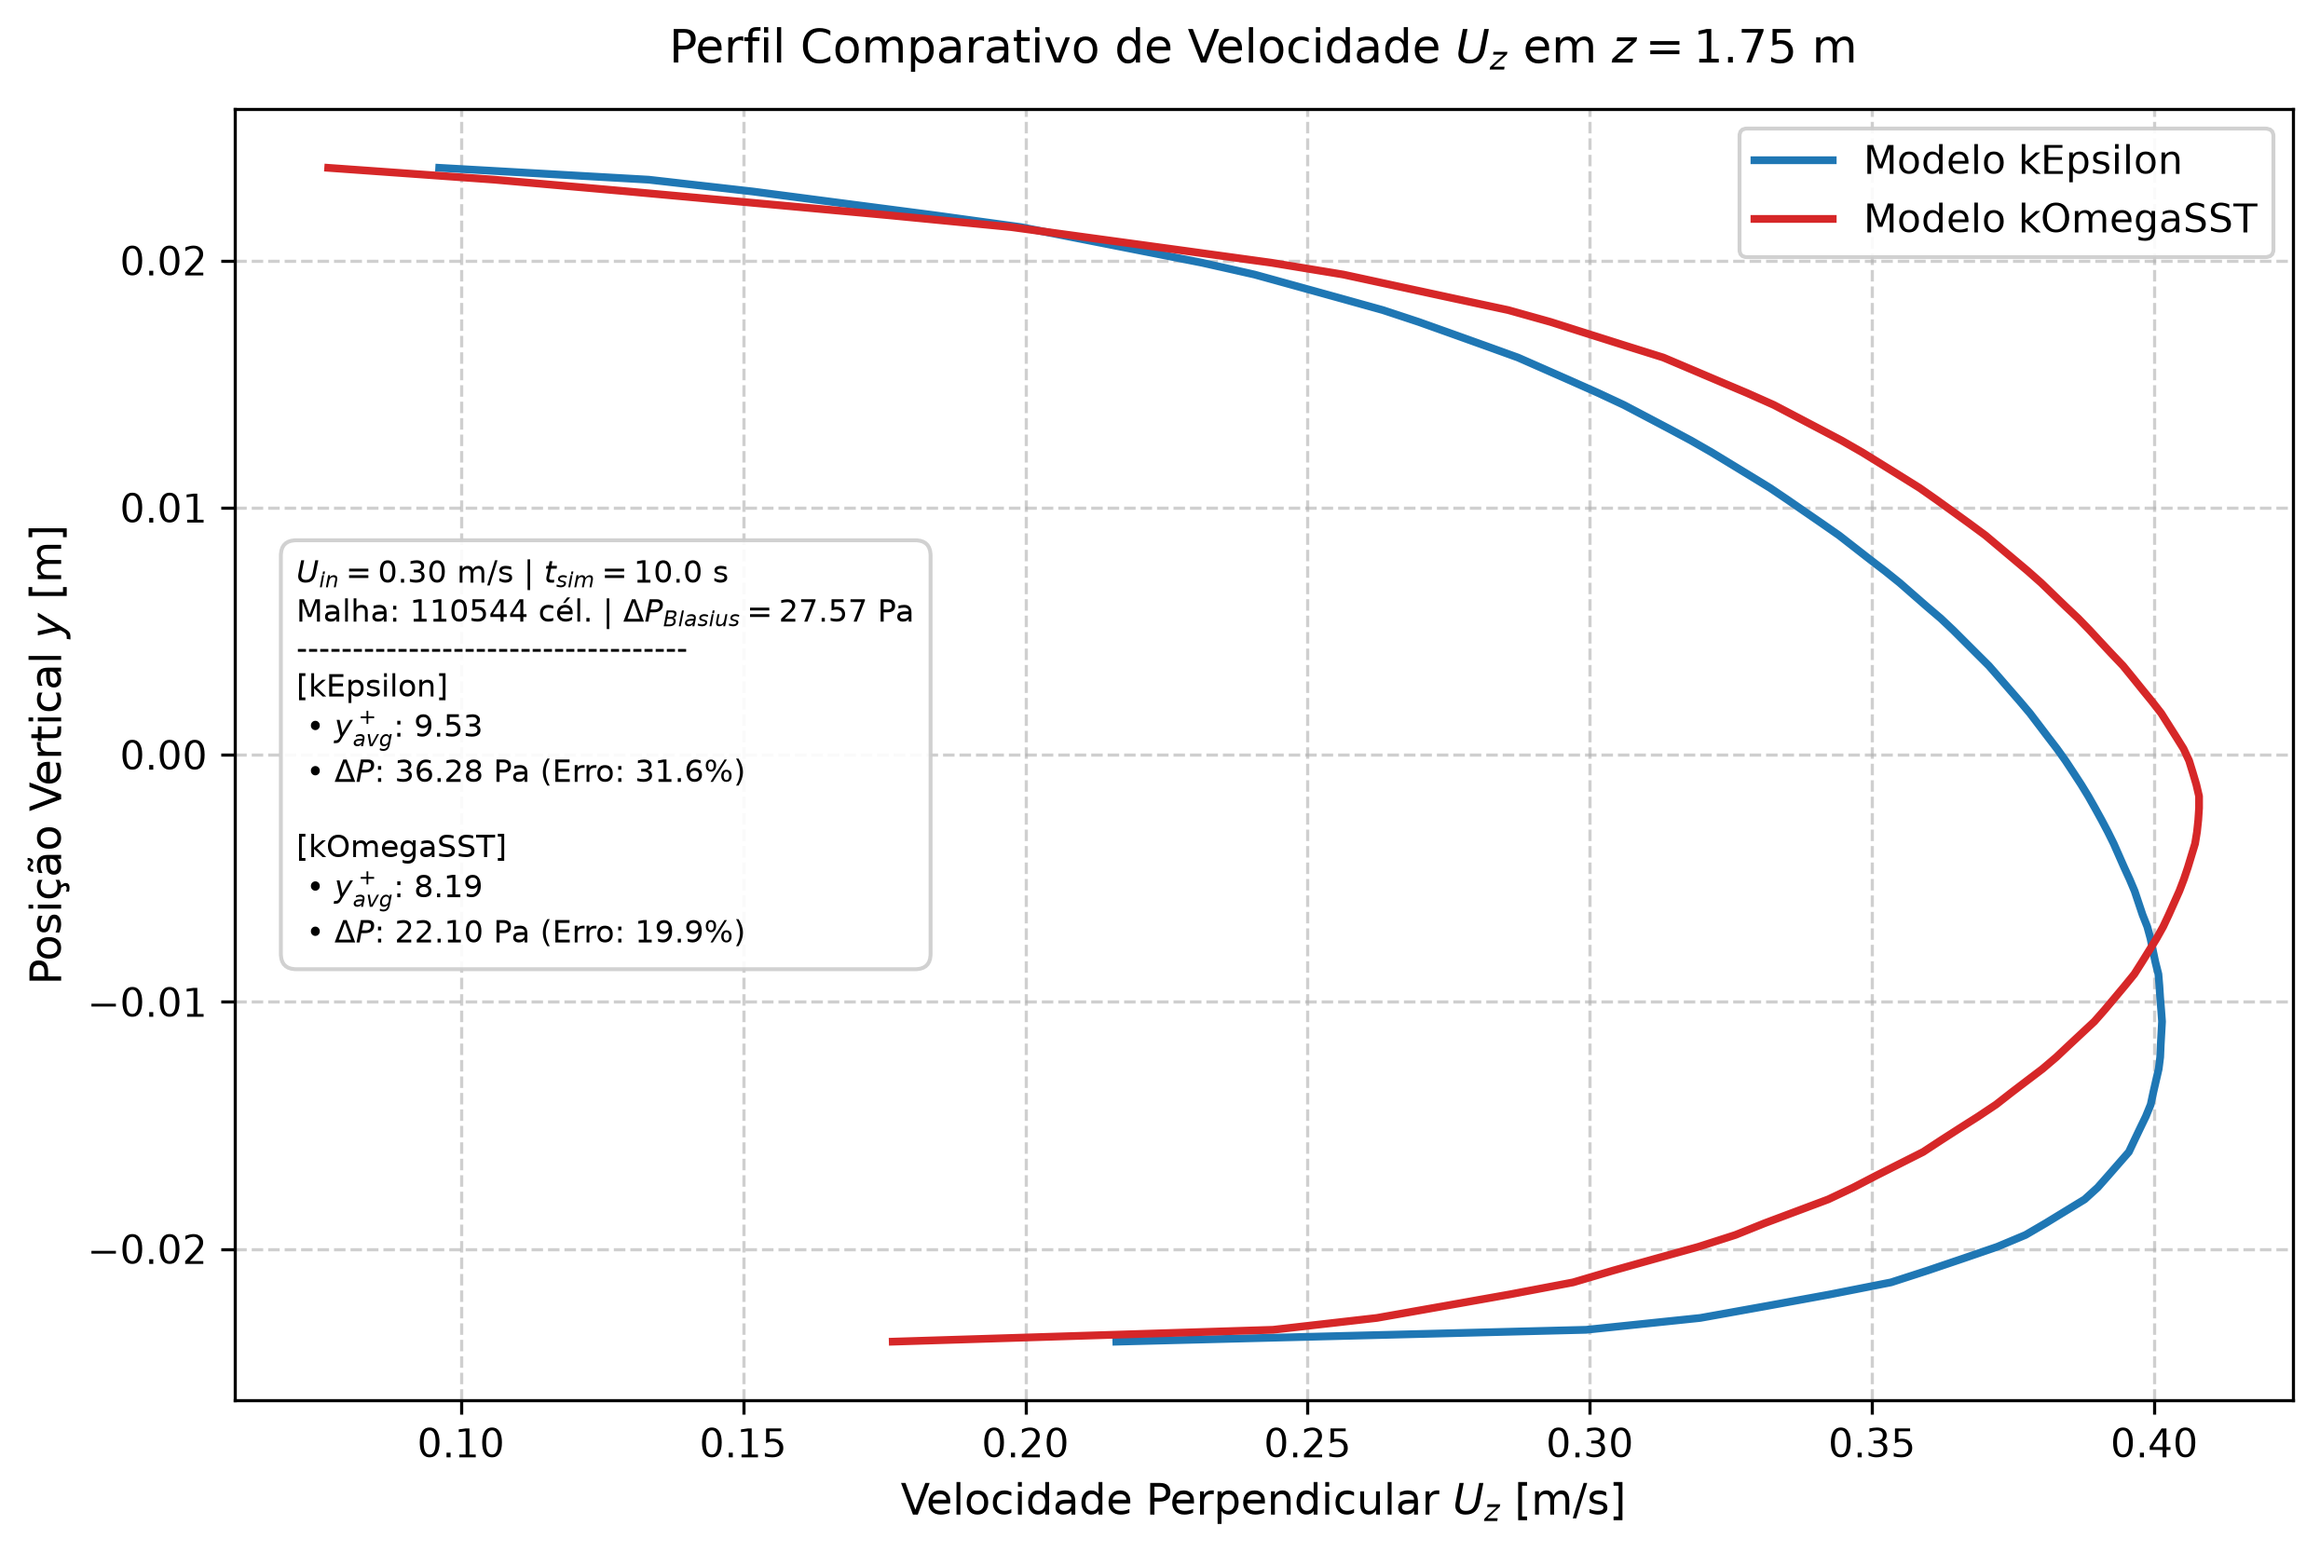
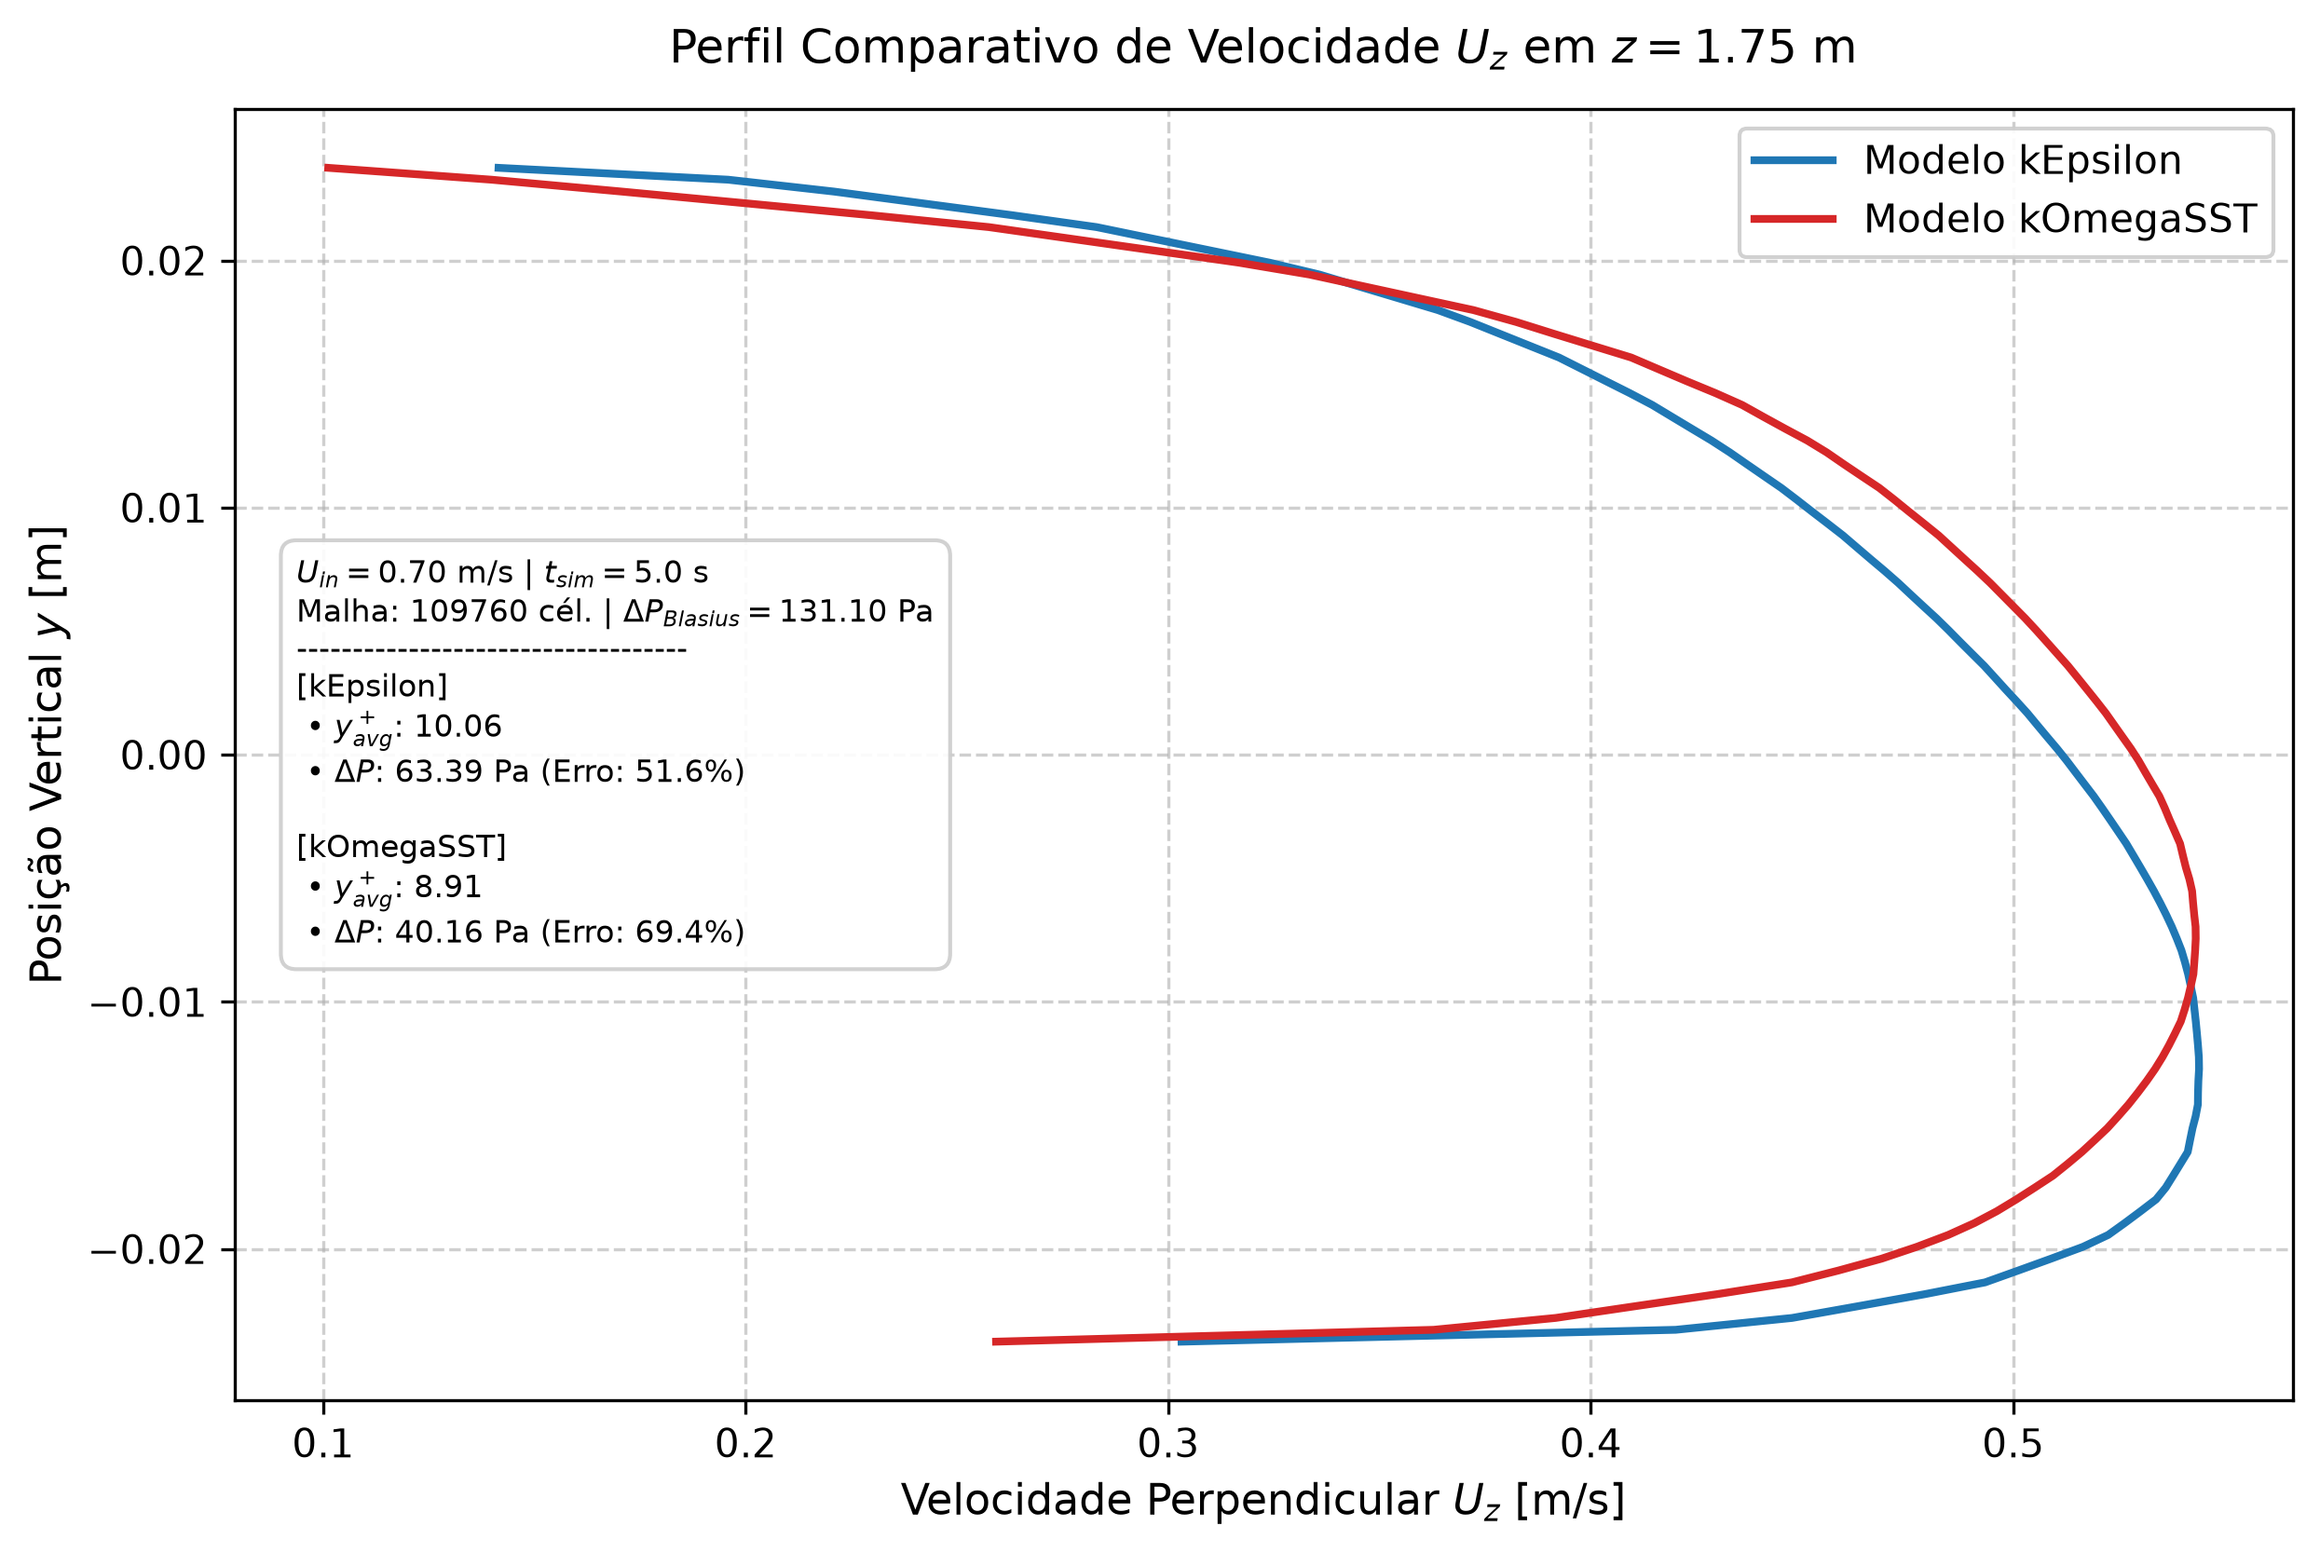
docs: adiciona analise visual e pos-processamento da instabilidade de Kelvin-Helmholtz

diff --git a/config/simulation_config.py b/config/simulation_config.py
@@ -6,40 +6,48 @@ class FluidProps(BaseModel):
     nu: float = Field(..., gt=0, description="Viscosidade cinemática em m2/s")
 
 class SimulationConfig(BaseModel):
-    case_name: str = "PipeFlow_Water_Oil"
+    case_name: str = "PipeFlow_Water_Oil_KH"
 
-    # Controle de Tempo e Estabilidade Numérica
-    end_time: float = Field(default=10.0, gt=0, description="Tempo final de simulação em segundos")
-    delta_t: float = Field(default=0.1, gt=0, description="Passo de tempo inicial em segundos")
-    max_co: float = Field(default=1, gt=0, le=1.0, description="Número de Courant máximo (maxCo)")
-    max_alpha_co: float = Field(default=1, gt=0, le=1.0, description="Courant máximo da interface (maxAlphaCo)")
-    max_delta_t: float = Field(default=1.0, gt=0, description="Passo de tempo máximo permitido em segundos")
-    write_interval: float = Field(default=1, gt=0, description="Frequência de gravação de passos de tempo")
+    # Controle de Tempo e Estabilidade Numérica (Ajustados para KH)
+    end_time: float = Field(default=5.0, gt=0, description="Tempo final de simulação em segundos")
+    delta_t: float = Field(default=0.01, gt=0, description="Passo de tempo inicial em segundos")
+    max_co: float = Field(default=0.25, gt=0, le=1.0, description="Número de Courant máximo para capturar KH")
+    max_alpha_co: float = Field(default=0.25, gt=0, le=1.0, description="Courant máximo da interface (maxAlphaCo)")
+    max_delta_t: float = Field(default=0.01, gt=0, description="Passo de tempo máximo permitido em segundos")
+    write_interval: float = Field(default=0.05, gt=0, description="Frequência alta de gravação para animação das ondas")
     
     # Geometria do duto
     diameter: float = Field(default=0.05, gt=0, description="Diâmetro em metros")
     length: float = Field(default=2.0, gt=0, description="Comprimento em metros")
     
-    # Condições do escoamento
-    velocity_inlet: float = Field(default=0.3, gt=0, description="Velocidade de entrada em m/s")
+    # Condições de Entrada - Kelvin-Helmholtz (Cisalhamento Elevado ΔU = 1.0 m/s)
+    velocity_water: float = Field(default=0.5, gt=0, description="Velocidade da fase água (fundo) em m/s")
+    velocity_oil: float = Field(default=0.3, gt=0, description="Velocidade da fase óleo (topo) em m/s")
+    velocity_inlet: float = Field(default=0.70, gt=0, description="Velocidade média equivalente de entrada em m/s")
+    
     initial_velocity_x: float = Field(default=1e-6, ge=0, description="Velocidade inicial em X")
-    inlet_alpha_water: float = Field(default=0.7, ge=0.0, le=1.0, description="Fração de água na entrada")
+    inlet_alpha_water: float = Field(default=0.5, ge=0.0, le=1.0, description="Fração de água na entrada (interface no meio)")
 
-    # Modelo de Turbulencia (ex: kEpsilon, kOmegaSST, laminar)
+    # Modelo de Turbulência
     turbulence_model: str = Field(default="kOmegaSST", description="Modelo RAS de turbulência")
     
     # Propriedades dos Fluidos (Água e Óleo)
     water: FluidProps = Field(default_factory=lambda: FluidProps(rho=998.2, nu=1e-6))
     oil: FluidProps = Field(default_factory=lambda: FluidProps(rho=890.0, nu=1e-5))
     
-    # Tensao superficial entre agua e oleo (necessario para interFoam)
+    # Tensão superficial entre água e óleo
     sigma: float = Field(default=0.03, ge=0, description="Tensão superficial N/m")
 
     # Malha e Paralelismo
-    mesh_factor: float = 1.414
+    mesh_factor: float = 1
     num_processors: int = 10
 
-    # Atalhos/retrocompatibilidade para manter propriedades antigas funcionando
+    # Atalhos e Retrocompatibilidade
+    @property
+    def delta_u(self) -> float:
+        """Diferença de velocidade interfacial que alimenta a instabilidade de KH."""
+        return abs(self.velocity_water - self.velocity_oil)
+
     @property
     def nx(self) -> int:
         return int(20 * self.mesh_factor)
@@ -75,7 +83,7 @@ class SimulationConfig(BaseModel):
 
     @property
     def reynolds_water(self) -> float:
-        return (self.velocity_inlet * self.diameter) / self.water.nu
+        return (self.velocity_water * self.diameter) / self.water.nu
 
     @property
     def surface_tension(self) -> float:

diff --git a/scripts/setup_0.py b/scripts/setup_0.py
@@ -9,7 +9,7 @@ from config.simulation_config import SimulationConfig
 def setup_zero_files(cfg: SimulationConfig, case_dir: Path):
     """
     Gera todos os arquivos do diretório 0/ (condições iniciais e de contorno)
-    para a simulação multifásica interFoam.
+    para a simulação multifásica interFoam (com transição suave para Kelvin-Helmholtz).
     """
     zero_dir = case_dir / "0"
     zero_dir.mkdir(parents=True, exist_ok=True)
@@ -152,7 +152,7 @@ boundaryField
 | \\\\      /  F ield         OpenFOAM: The Open Source CFD Toolbox           |
 |  \\\\    /   O peration     Version:  v2606                                 |
 |   \\\\  /    A nd           Website:  www.openfoam.com                      |
-|    \\\\/     M anipulation                                                 |
+|    \\\\/     M anipulation                                                  |
 \\*---------------------------------------------------------------------------*/
 FoamFile
 {
@@ -165,7 +165,7 @@ FoamFile
 
 dimensions      [0 0 -1 0 0 0 0];
 
-internalField   uniform 10; // Valor estritamente > 0
+internalField   uniform 10;
 
 boundaryField
 {
@@ -198,7 +198,7 @@ boundaryField
 """
     (zero_dir / "omega").write_text(omega_content, encoding="utf-8")
 
-# ?. epsilon (Taxa de Dissipação da Energia Cinética Turbulenta)
+    # 5. epsilon (Taxa de Dissipação da Energia Cinética Turbulenta)
     epsilon_content = f"""/*--------------------------------*- C++ -*----------------------------------*\\
 | =========                                                                 |
 | \\\\      /  F ield         | OpenFOAM: The Open Source CFD Toolbox           |
@@ -245,7 +245,7 @@ boundaryField
 """
     (zero_dir / "epsilon").write_text(epsilon_content, encoding="utf-8")
 
-    # 5. p_rgh (Pressão Hidrostática Modificada)
+    # 6. p_rgh (Pressão Hidrostática Modificada)
     p_rgh_content = f"""/*--------------------------------*- C++ -*----------------------------------*\\
 | =========                 |                                                 |
 | \\\\      /  F ield         | OpenFOAM: The Open Source CFD Toolbox           |
@@ -291,7 +291,7 @@ boundaryField
 """
     (zero_dir / "p_rgh").write_text(p_rgh_content, encoding="utf-8")
 
-    # 6. U (Campo de Velocidades)
+    # 7. U (Campo de Velocidades com Transição Suave via tanh)
     u_content = f"""/*--------------------------------*- C++ -*----------------------------------*\\
 | =========                 |                                                 |
 | \\\\      /  F ield         | OpenFOAM: The Open Source CFD Toolbox           |
@@ -310,14 +310,32 @@ FoamFile
 
 dimensions      [0 1 -1 0 0 0 0];
 
-internalField   uniform ({getattr(cfg, 'initial_velocity_x', 0.0)} 0 0);
+internalField   uniform (0 0 {getattr(cfg, 'initial_velocity_x', 1e-6)});
 
 boundaryField
 {{
     inlet
     {{
-        type            fixedValue;
-        value           uniform (0 0 {cfg.velocity_inlet});
+        type            codedFixedValue;
+        value           uniform (0 0 0);
+        name            velocityProfileKH;
+
+        code
+        #{'{'}
+            const vectorField& Cf = patch().Cf();
+            vectorField& Upatch = *this;
+
+            const scalar U_water = {cfg.velocity_water};
+            const scalar U_oil = {cfg.velocity_oil};
+
+            forAll(Cf, i)
+            {{
+                scalar y = Cf[i].y();
+                // Transição suave em uma camada limite de 2mm ao redor da interface (y = 0)
+                scalar blend = 0.5 * (1.0 + std::tanh(y / 0.002));
+                Upatch[i] = vector(0, 0, U_water * (1.0 - blend) + U_oil * blend);
+            }}
+        #{'}'};
     }}
 
     walls
@@ -339,7 +357,6 @@ boundaryField
 
 def main():
     config = SimulationConfig()
-    # Aponta exatamente para a pasta utilizada no run_pipeline.py
     target_case = Path(__file__).resolve().parent.parent / "template_case"
     setup_zero_files(config, target_case)
     print("Arquivos do diretório '0/' gerados com sucesso")

diff --git a/README.md b/README.md
@@ -1,6 +1,3 @@
-# toy-problem-1-1
-Refatoração do toy-problem-1 para uso de templates funcionais do OpenFOAM parametrizados via Python e Pydantic.
-
 # Toy Problem 1-1: Automação e Validação RANS Bifásica no OpenFOAM
 
 Refatoração do caso de teste multifásico para automação via Python, parametrização via Pydantic e validação de modelos RANS com OpenFOAM.
@@ -30,5 +27,3 @@ A validação da perda de carga ($\Delta P$) é realizada na **região com escoa
 | :--- | :---: | :---: | :---: | :---: |
 | **$k-\epsilon$** | 36.27 | 27.57 | **31.57%** | 9.53 |
 | **$k-\omega$ SST** | 22.09 | 27.57 | **19.86%** | 8.19 |
-
-> **Nota:** O modelo **$k-\omega$ SST** apresentou melhor aderência devido ao tratamento mais preciso na camada limite viscosa e na interface multifásica (VOF).
